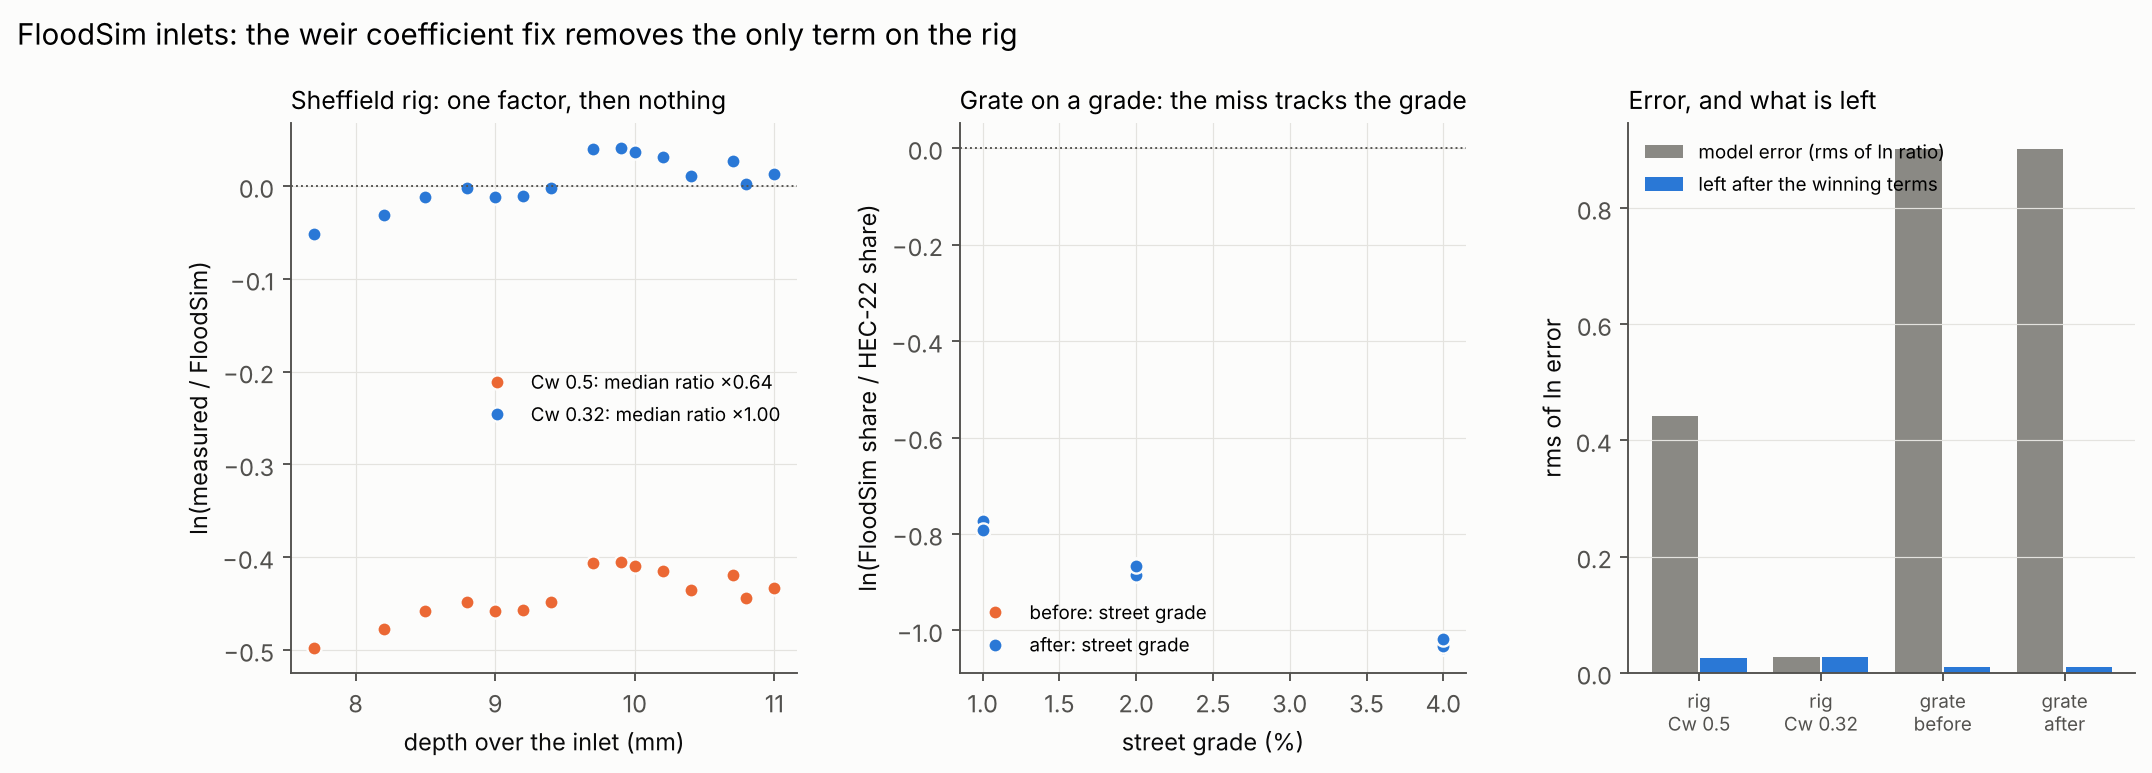
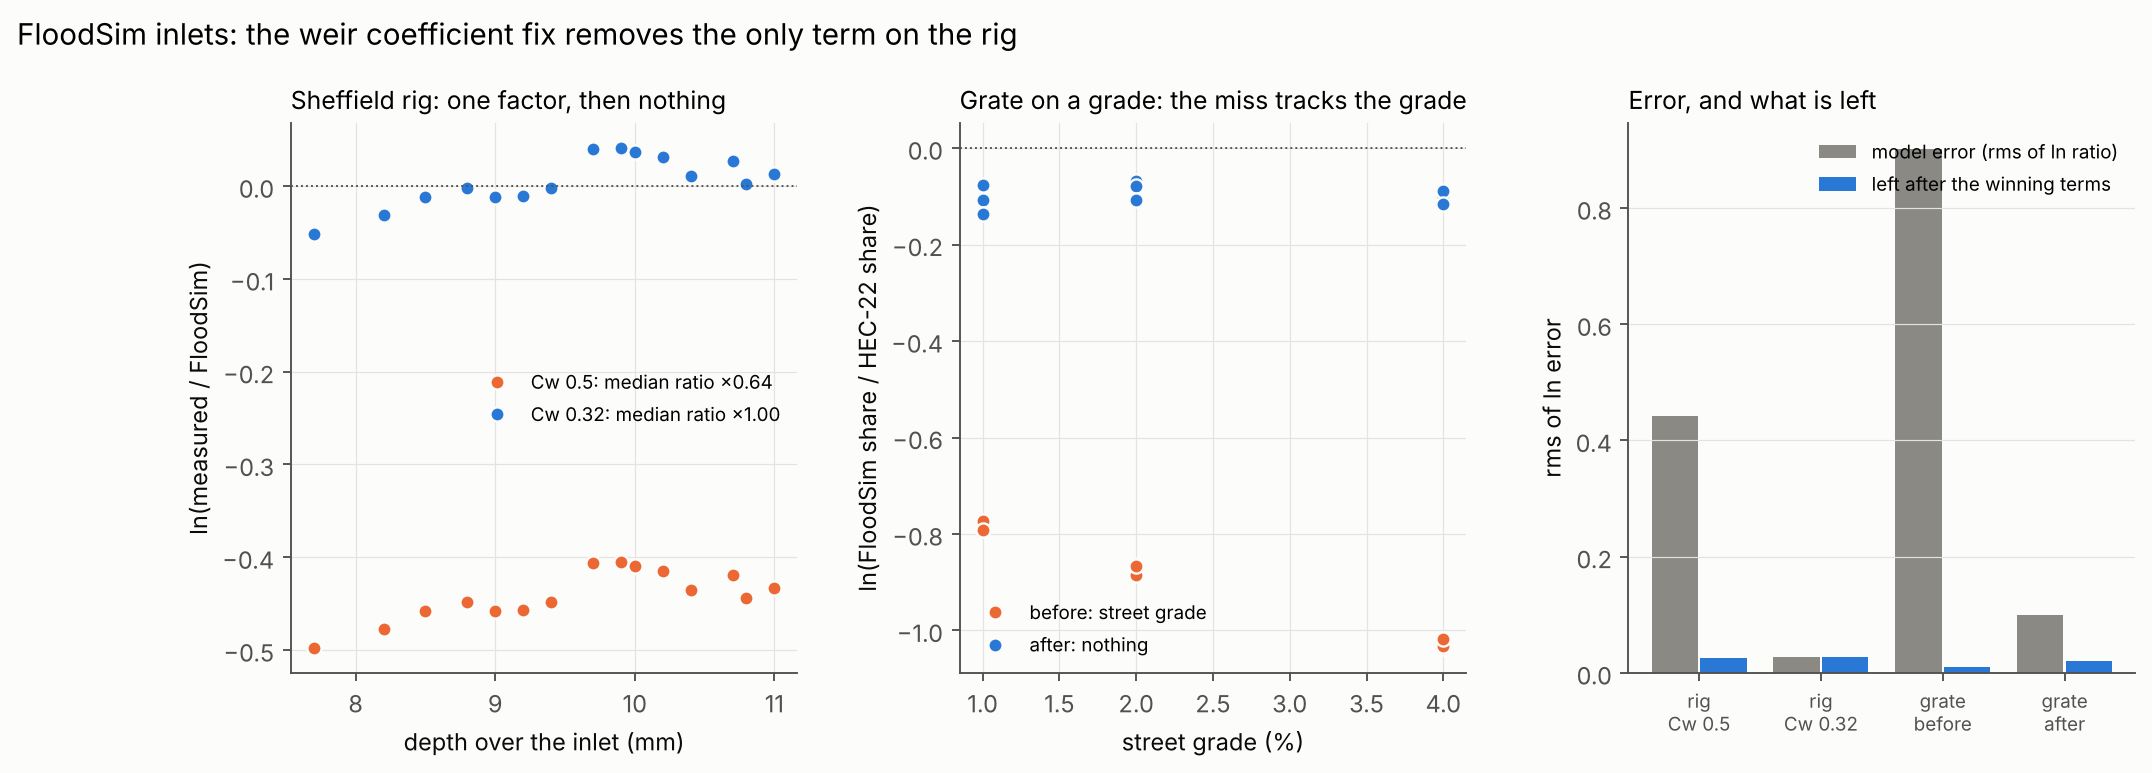
physlib: flood grate-on-grade after = PV-SS13 rerun at FloodSim 42b3d0c (grade term gone)
Claude-Session: https://claude.ai/code/session_01LYT5QAEeg6s7potMDMDLkS

diff --git a/physlib/cases.py b/physlib/cases.py
@@ -225,8 +225,8 @@ def flood():
         out[f"F2_{lab}"] = finish(res, extra={"run": path.parent.name, "median_share_ratio": float(np.exp(np.median(r)))})
         arr[f"F2_{lab}"] = arrays(res, SL=D["SL"], V=D["V"], rain=D["rain"])
         print("F2", lab, out[f"F2_{lab}"]["winner"]["terms"], out[f"F2_{lab}"]["winner"]["coef"], round(out[f"F2_{lab}"]["bits_saved_per_reading"], 3))
-    out["F2_note"] = ("the PV-SS13 rerun at FloodSim 8f525e9 (capture 'hec22' default) gave the same shares as the 17 Nov run to 3 "
-                      "decimals, so 'after' does not yet carry the grate fix; reported to the fixes thread")
+    out["F2_note"] = ("'after' = PV-SS13 raw files rerun by the fixes thread at FloodSim 42b3d0c (results 2026-11-22T21-37-17-739Z, "
+                      "grate capture fix + Cw 0.32); pass FLOOD_AFTER=<results dir>")
     return out, arr
 
 

diff --git a/physics/FINDINGS-4.md b/physics/FINDINGS-4.md
@@ -58,9 +58,11 @@ pending: WindSim F5 (station z0 from its own gusts) has code but no result files
 **Flood, FloodSim inlets.** ![flood](figures/library/15_flood.png)
 - Sheffield rig, Cw 0.5: one factor (×0.64), no physics term. Cw 0.32 (8f525e9): median ratio ×1.00 and **nothing
   pays at all**. Calibration (0.32 was fitted to these tests), so it checks the fix landed, nothing more.
-- Grate on a grade: street grade cuts the error spread from 0.14 to 0.01 (log units) before. The **after** run here was a rescore of old raw
-  files (`run.mjs` rescores; it doesn't rerun the model). The fixes thread reran PV-SS13 at 8f525e9 and reports all
-  9 grate shares now pass; this case is rerun when its raw files land.
+- Grate on a grade: before, street grade cuts the error spread from 0.14 to 0.01 (log units): the model's capture
+  misses track grade. **After** (PV-SS13 rerun by the fixes thread at FloodSim 42b3d0c, results
+  2026-11-22T21-37-17-739Z): **the grade term no longer pays; nothing does** (one level, −0.10). The grate fix removed
+  the error that tracked grade. Those defaults (with Cw 0.32) failed the fixes thread's own rule on SS3-x2, so it is
+  retesting capture alone with Cw 0.5; that run is rescored here when it lands.
 
 **Ground chain, synthetic towns, before and after CHI A11.** ![ground](figures/library/16_ground.png)
 - Faulty reference: before, what every cell shares is a reference jump (−39.5 mm in 2020.3) plus a ramp; the rate
